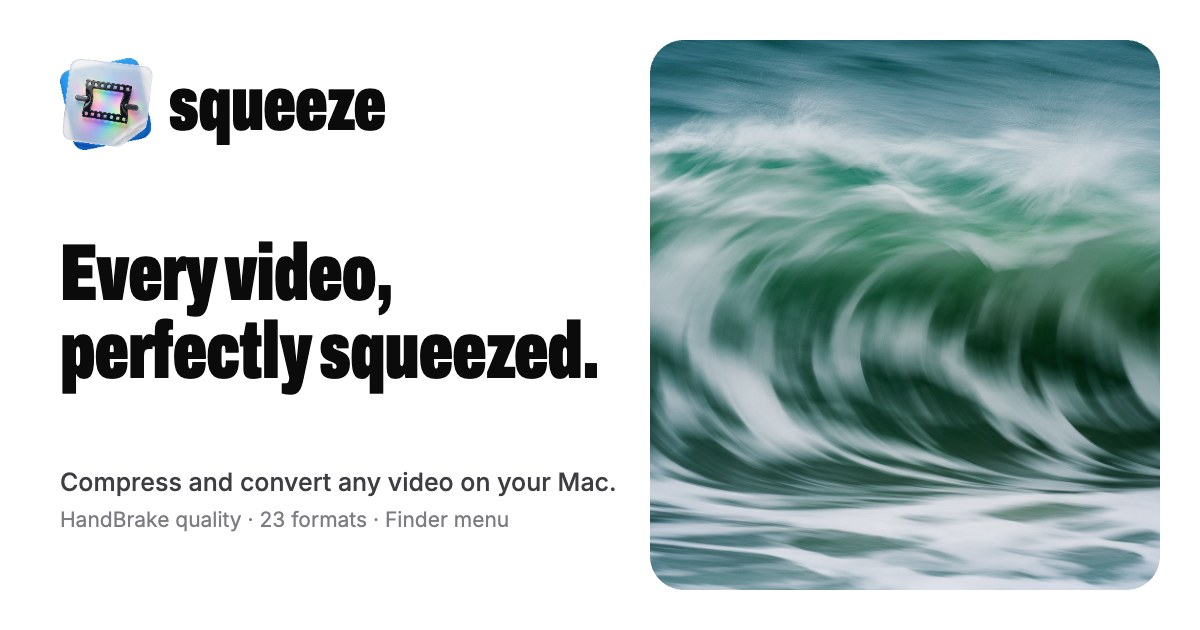
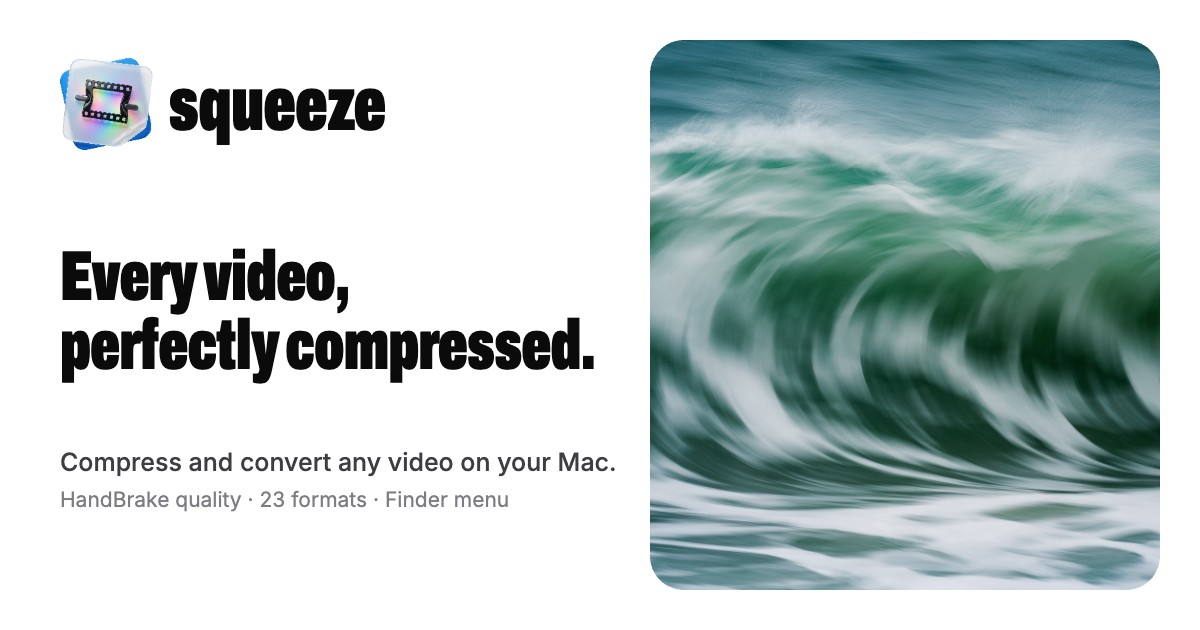
Headline: perfectly compressed

Changed region(s): [[0.0617, 0.3619, 0.5242, 0.6333], [0.0308, 0.7238, 0.5242, 0.8444], [0.0308, 0.6032, 0.0617, 0.6333]]

diff --git a/docs/index.html b/docs/index.html
@@ -68,7 +68,7 @@
     <div class="wrap">
       <div class="badge"><i></i>Free for macOS 26 Tahoe · Apple Silicon</div>
       <span class="eyebrow">A video tool that stays out of your way</span>
-      <h1>Every video,<br>perfectly squeezed.</h1>
+      <h1>Every video,<br>perfectly compressed.</h1>
       <p class="lead">Squeeze compresses and converts any footage on your Mac. Drop files in, press one button and get HandBrake-quality results. Or just right-click in Finder.</p>
       <div class="btn-row" id="download">
         <a class="btn btn-primary" data-link="download" href="#">Download for Mac <span class="dot"><svg><use href="#i-arrow"/></svg></span></a>
